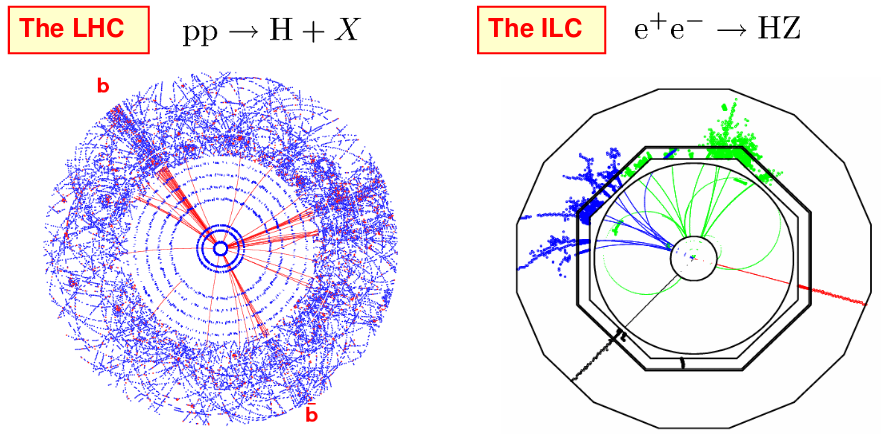
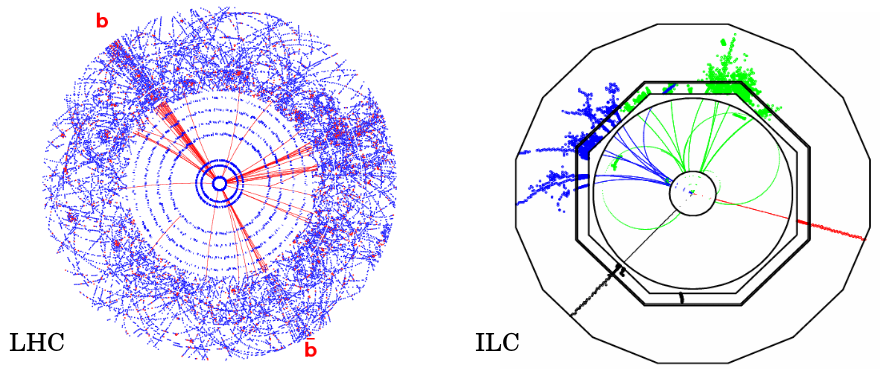
Added pictures from TDR to ILC layout chapter. Comments from Marcel

diff --git a/thesis/Chapters/ILC.tex b/thesis/Chapters/ILC.tex
@@ -53,13 +53,14 @@ The whole process leads to an effective positron yield of 1.5 positrons per orig
 Due to the fact that the positrons were produced by using an already bunched electron beam, the positron beam is bunched as well. 
 \begin{figure}
 \centering
-\includegraphics[width=0.7\textwidth]{Figures/Undulator_edited.png}
+\includegraphics[width=0.45\textwidth]{Figures/Undulator_edited.png}
 \caption[Schematic layout of an undulator]{Schematic of an electron beam traveling through an undulator with dipole magnets in alternating order~\cite[based on p. 41]{Wille}.}
 \label{fig:Undulator}
 \end{figure}
 \paragraph{Damping rings}
 Since the electrons and positrons still have a large emittance from when they originated from their sources, their momentum and beam sizes have to be condensed.
 This is done in the damping rings (DR), which have a circumference of \SI{3.2}{\kilo\meter}~\cite[p. 14]{TDR32}.
+A layout of the ILC damping rings is shown in Figure~\ref{fig:DR}.
 As discussed several times before, the beams will emit synchrotron radiation when they are deflected in a magnetic field.
 This is desired in the damping rings in order to ``cool'' the beams, i.e. to reduce their momenta due to the emission of photons.
 The emission of synchrotron radiation happens in the curved sections of the damping rings, but also in the straight sections by the use of wigglers.
@@ -69,12 +70,22 @@ Since the synchrotron radiation photons are emitted tangentially to the beam par
 the particle's momentum in forward direction is reduced.
 By accelerating the beams in RF cavities in the straight sections, the beam momentum in z-direction is increased.
 Overall, the momentum in the desired direction rises, whilst the momentum spread shrinks.
-However, this is not the only effect of damping rings.
+\begin{figure}[h]
+\centering
+\includegraphics[width=0.4\textwidth]{Figures/DR.png}
+\caption[Damping ring layout]{Schematic layout of the ILC damping rings.
+Next to the injection and extraction system, there are wigglers and RF cavities for the emittance reduction, as well as a chicane for circumference adjustments, and a so-called phase trombone for accommodating changes in the RF phase~\cite[p. 15]{TDR32}.}
+\label{fig:DR}
+\end{figure}
+\\However, this is not the only effect of damping rings.
 As shown in Section~\ref{AccPhysics:Bunching}, the orbit of charged particles in an external magnetic field depends on their momenta.
 In the bends, off-momentum particles travel on an orbit with a different radius than particles with the ideal momentum.
-Entering the straight sections from inaccurate \todo{Better word for ``not ideal''?} orbits causes orbit distortions and aberrations in the straight sections, which again cause a rise in the beam emittance.
-Due to the design choice of having a pulse repetition rate of \SI{5}{\hertz}, the beams are stored for \SI{200}{\milli\second} in the damping rings, performing about \num{18000} turns.
+Entering the straight sections from inaccurate \todo{Better word for ``inaccurate, not ideal''?} orbits causes orbit distortions and aberrations in the straight sections, which again cause a rise in the beam emittance.
+To counteract this effect, a chicane is needed for adjusting the circumference.
+An additional phase trombone system, which consists of sets of alternating quadrupoles, regulates the orbit aberrations due to changes in the RF phase.
+Because of the design choice of having a pulse repetition rate of \SI{5}{\hertz}, the beams are stored for \SI{200}{\milli\second} in the damping rings, performing about \num{18000} turns.
 After this amount of turns, an equilibrium emittance is reached, and the high quality beam with small beam emittance is extracted and continues along the beam lines. \todo{Re-wording!}
+
 \paragraph{Bunch compressors}
 After passing the damping rings, the electron and positron beams are compressed in bunch length by a two-stage compressor system, using ``magnetic compression''.
 Here, the bunch length is reduced from several millimeters to \SI{300}{\micro\meter}.
@@ -83,22 +94,43 @@ As discussed in Section~\ref{AccPhysics:Bunching}, the RF frequency and the timi
 The low-momentum particles of the bunch head will therefore be deflected more in the wiggler, the high-momentum particles of the tail are deflected less, respectively.
 At the end of the compressor system, the particles of the bunch tail and head will have gotten closer, leading to a shortened beam bunch. 
 The usage of two separate systems relaxes the requirements a single system would need to fulfill,  and allows more flexibility in the operation, e.g. to reduce the beam length below \SI{300}{\micro\meter}~\cite[p. 124]{TDR32}.
+
 \paragraph{Main linacs}
 Subsequent to bunch compressors, the bunches are injected into the main linear accelerator structures (main linacs).
 The two main linacs are designed to accelerate the beams to the final beam energy of \SI{125}{\GeV}, leading to a center-of-mass energy of \SI{250}{\GeV}.
 They have a length of \SI{5}{\kilo\meter} each, and use \SI{1.3}{\giga\hertz} superconducting RF cavities with an average accelerating gradient of \SI{31.5}{\mega\volt\per\meter}~\cite{Walker}.
-\todo{Show plot of cavity gradient}
 A picture of one of these cavities is shown in Figure~\ref{fig:Tesla_Cavity}. 
 Since cavities of the same design are already in use for the European XFEL (X-Ray Free-Electron Laser) at Deutsches Elektronen-Synchrotron (DESY) in Hamburg, their high performance has been demonstrated~\cite{XFEL}.
-For the machine upgrade to a center-of-mass energy of \SI{500}{\GeV}, the linacs can be extended in length.
+The gradient distribution of the cavities used at the European XFEL is shown in Figure~\ref{fig:XFEL_cav}.
+The average of the maximum gradient reachable is with about \SI{35}{\mega\volt\per\meter} even higher than the ILC requirements.
+\begin{figure}[h]
+\centering
+\includegraphics[width=0.4\textwidth]{Figures/Cavity_Gradient.png}
+\caption[XFEL cavity gradient]{Maximum and usable gradient distribution of the final European XFEL cavities.
+The yield is defined as the fraction of cavities which have a gradient higher than the specified value on the x-axis~\cite[p. 18]{XFEL_Cavities}.}
+\label{fig:XFEL_cav}
+\end{figure}
+
 \paragraph{Beam Delivery System}
 The Beam Delivery System (BDS), which has an overall length of about \SI{4.4}{\kilo\meter}, transports the bunches from the linacs to the Interaction Point (IP).
 In the BDS, the beams are focused to nanometer size by the Final-Focus (FF) system, which is a crucial part of the ILC program.
 Only with nanometer-sized bunches, the ILC can reach luminosities comparable to or beyond the Large Hadron Collider (LHC) at CERN, since the total production cross-section for \positron \electron colliders is several orders of magnitude smaller than for proton-proton colliders, such as the LHC, at their respective collision energies (see Figure~\ref{fig:Cross_sections}).
 To demonstrate the feasibility of nanometer-scale beams, a test facility was built that is a small scale prototype of the FF system for the ILC: the Accelerator Test Facility (ATF2), which will be presented in more detail in Section~\ref{ATF2}.
 The BDS system does not only contain the FF system, but also various feedback diagnostics and beam-halo collimators for removing the halo of particles around the beam core in order to reduce the beam background at the IP. 
+The sub-system layout for the sophisticated \todo{Is that appropriate here?} BDS is shown in Figure~\ref{fig:BDS}.
 Additionally, shielding systems are installed at various locations along the BDS line, again in order to keep the background level at the IP as low as possible.
 Chapter~\ref{BDS_Muons} will talk about muon shielding options that are considered for the ILC.
+\begin{figure}[h]
+\centering
+\includegraphics[width=0.6\textwidth]{Figures/BDS.png}
+\caption[Layout of the Beam Delivery System]{Schematic layout of the Beam Delivery System (BDS) for the electron beam line.
+After the main linac, the BDS for the electron beam line reaches from about Z = -2.2\,km to the Interaction Point (IP) at Z = 0.
+The vertical colored lines along the beam line represent the magnets and other devices of the various sub-systems.
+Next to diagnostic devices, such as the polarimeter and the energy spectrometer, there are collimation systems to focus and to prepare the beam for the collision at the IP.
+The primary dump at Z = 250\,m is the electron beam dump, which will be explained below~\cite[p. 135]{TDR32}.}
+\label{fig:BDS}
+\end{figure}
+
 \paragraph{Beam collision}
 After the Final-Focus system, the beams are then finally brought into collision with a crossing angle of \SI{14}{\milli\radian} at the IP.\cite[p. 9-10]{TDR1}
 With so-called crab cavities, the bunches are rotated horizontally so that effective head-on collisions are possible.
@@ -115,7 +147,7 @@ Therefore, the crab cavities are positioned at locations where this ratio $R$ be
 For the ILC, it was calculated that the crab cavities should be located \SI{13.4}{\meter} up- and downstream of the IP~\cite[p. 154]{TDR32}.
 \begin{figure}
 \centering
-\includegraphics[width=0.5\textwidth]{Figures/Crab_crossing.png}
+\includegraphics[width=0.4\textwidth]{Figures/Crab_crossing.png}
 \caption[Schematic of a beam crossing with crab cavities]{Schematic of a beam crossing with crab cavities. In a crossing with crossing angle $\theta_C$, head-on collisions are only possible with crab cavities that rotate the beam in the horizontal plane.}
 \label{fig:Crab_crossing}
 \end{figure}
@@ -179,7 +211,7 @@ Therefore, it has to be considered whether the cost cutback of option A' outweig
 Latter would give a positive sign to the ILC community that an energy upgrade is definitely foreseen for the future.
 \begin{figure}
 \centering
-\includegraphics[width=0.7\textwidth]{Figures/Staging.png}
+\includegraphics[width=0.9\textwidth]{Figures/Staging.png}
 \caption[Different layouts for the ILC250 stage]{Different layouts for the ILC250 stage.
 The original layout has foreseen a tunnel fitting linacs for \SI{250}{\GeV} beam acceleration, which would lead to a center-of-mass energy of \SI{500}{\GeV}.
 For the new stage, the linacs are reduced in length.
@@ -204,8 +236,15 @@ The overall operation time would stretch out to 26 years.\\
 For the second scenario on the right hand side of Figure~\ref{fig:ILC_runningtime}, it was assumed that the beam parameters are changed in such a way that the beam is more strongly focused at the IP and therefore that the instantaneous luminosity is enhanced.
 That shortens the operation time of the ILC250 stage to 11 years, and the overall run time to 22 years~\cite[p. 7]{PhysicsCase}.
 
-\section{Possible site}
+
 \label{ILC:site}
+\begin{figure}[h]
+\centering
+\includegraphics[width=0.6\textwidth]{Figures/ILC-site.png}
+\caption[Possible site for the ILC]{The possible site for the ILC is the Kitakami mountains in the Tohuku prefecture.\cite{Kitakami}}
+\label{fig:ILC_Site}
+\end{figure}
+\section{Possible site}
 Out of originally more than ten potential ILC sites in Japan, the Kitakami mountains in the Tohuku Prefecture was chosen to be the preferred site for the ILC~\cite{Site}.
 This decision was made in August 2013 after a detailed study of all site specific factors, like the geological conditions, the infrastructure, and the impact on the environment and the economy.
 Measurements of the Kitakami mountains have shown that it consists mostly of granite rock with the best qualities for the ILC, regarding vibration and rock stress.
@@ -213,12 +252,7 @@ As can be seen in Figure~\ref{fig:ILC_Site}, the closest city (with about 120,00
 Morioka and Sendai are the biggest cities close to the candidate site, with Tokyo being about \SI{430}{\kilo\meter} away.
 Although being in the north of Japan, the travel time from Tokyo is only about three hours by Shinkansen, Japan's high-speed bullet train, and the proximity to the coast line allows the transportation of construction, machine, and detector parts by ship.
 Additionally, there are local airports in both, Morioka and Sendai, presenting further options for traveling and the transportation of construction materials.
-\begin{figure}[h]
-\centering
-\includegraphics[width=0.52\textwidth]{Figures/ILC-site.png}
-\caption[Possible site for the ILC]{The possible site for the ILC is the Kitakami mountains in the Tohuku prefecture.\cite{Kitakami}}
-\label{fig:ILC_Site}
-\end{figure}
+
 
 \section{Physics motivation}
 \label{ILC:physicsmotivation}
@@ -226,26 +260,30 @@ After having shown that the ILC as a linear lepton collider is designed to be a 
 With the LHC as the so-called ``discovery machine'', the ILC will be a complementary collider being aimed rather for much needed precision than for searching for new particles at high energies.
 The ILC is often called the future Higgs factory which will measure the qualities of the Higgs boson with much higher precision than it had been done so far.
 Additionally, the different stages of the ILC will also measure the top quark qualities, and will have access to Beyond Standard Model (BSM) physics.
+Since the first ILC stage will run at a center-of-mass energy of \SI{250}{\GeV}, this section will focus more on the measurements of the Higgs boson than of the top quark and the BSM physics.
  
 \subsection{The way to go}
 To reach the precision the ILC promises, it must achieve four different objectives.
 These objectives are all linked so that one cannot be achieved without the others.
+In the following, these four objectives of the ILC are explained in comparison to the LHC.
 
 \paragraph{Minimal background}
 Due to leptons in the initial state, there will be one event per colliding lepton pair.
 Leptons are elementary and not composite particles like the proton, therefore there are no underlying events which arise from other partons of the composite particle.
 The energy range of the final state particles is restricted, since the initial energy of the colliding beams can be set precisely and only point-like particles collide.
-Something only possible at lepton colliders is that the desired events can hence be pre-selected by setting the center-of-mass energy to the mass of the particle of interest.\\
+Something only possible at lepton colliders is that the desired events can hence be pre-selected by setting the center-of-mass energy and running threshold scans at the mass of the particle of interest.\\
 Also beam polarization contributes to the small background levels, since the polarization can be set in such a way that weak interactions are either enhanced or suppressed.
 As the weak interaction acts only on left-handed fermions, the polarization (or handedness) of the beam particles has an effect on the processes that can occur.
-Therefore, depending on the physics process of interest, the polarization can enhance the signal whilst suppressing the background.\\
-Figure~\ref{fig:Cleanliness} shows two event displays of a Higgs event at the LHC and the ILC in comparison.
+Therefore, depending on the physics process of interest, the polarization can enhance the signal whilst suppressing the background. \todo{More details}
+\\Figure~\ref{fig:Cleanliness} shows two event displays of a Higgs event at the LHC and the ILC in comparison.
+Due to the nature of composite particles, event displays at the LHC are dominated by underlying events and pileup events.
+At the ILC, the event displays are clean, and the tracks from the final state particles of the physics event can be distinguished easily.
 \begin{figure}[H]
 \centering
-\includegraphics[width=0.5\textwidth]{Figures/Cleanliness.png}
-\caption[Clean environment at the ILC]{Comparison of the event displays of a Higgs event at the  LHC and at the ILC.\cite[p. 4]{ILCPhysics_Thomson}
-The comparison shows that at the ILC the hits recorded are exclusively from the final state particles of the physics interaction.
-At the LHC, underlying and pileup events populate the detector.}
+\includegraphics[width=0.6\textwidth]{Figures/Cleanliness.png}
+\caption[Clean environment at the ILC]{Comparison of the event displays of a Higgs event at the  LHC and at the ILC~\cite[based on p. 4]{ILCPhysics_Thomson}.
+At the LHC, underlying events and pileup events populate the detector, whilst at the ILC the hits are mainly from the final state particles of the physics interaction of interest.
+}
 \label{fig:Cleanliness}
 \end{figure}
 
@@ -266,13 +304,13 @@ Because of the clean events and the possibility to record and store all taken da
 The quark and lepton momenta can therefore be determined by kinematic fits.
 Studies of the spin-dependence of the production and decay processes are also possible.\\
 Due to the high energy resolution and the fact that the initial particle energies are precisely known, particles with small mass differences are distinguishable, i.e. peaks in mass spectra that are close together are more likely to be separable.
-That means that new particle might indeed be found at the ILC.\\
+That means that new particles might indeed be found at the ILC.\\
 Additionally, the nanometer-sized beam of the ILC allows c-tagging, which improves many physics studies.
 The charm quark (c) hadronizes a small distance away from the primary IP, which is a perfect way to identify that a charm quark was involved in the event.
 Since the distance between the primary and the so-called secondary vertex can only be measured by a vertex detector with micrometer resolution, c-tagging is in general very difficult, but will be possible at the ILC.
 
 \subsection{ILC as a Higgs factory}
-The ILC250 stage will be a so-called Higgs factory, tuned to the Higgs mass of \SI{125}{\GeV}.
+The ILC250 stage will be a so-called Higgs factory, tuned to \SI{125}{\GeV}, where the cross-section for Higgs production is at its maximum.
 Due to the large luminosity and the capability for precision measurements, as has been shown in the section above, the individual Higgs boson qualities can be measured to a percent accuracy in a completely model independent way.
 These Higgs boson parameters include the Higgs mass, its couplings to Standard Model particles, as well as its global decay width.
 In contrast, for the LHC experiments, global fits to all Higgs signals together with theoretical assumptions of its decay width is the only way to gain the Higgs couplings.
